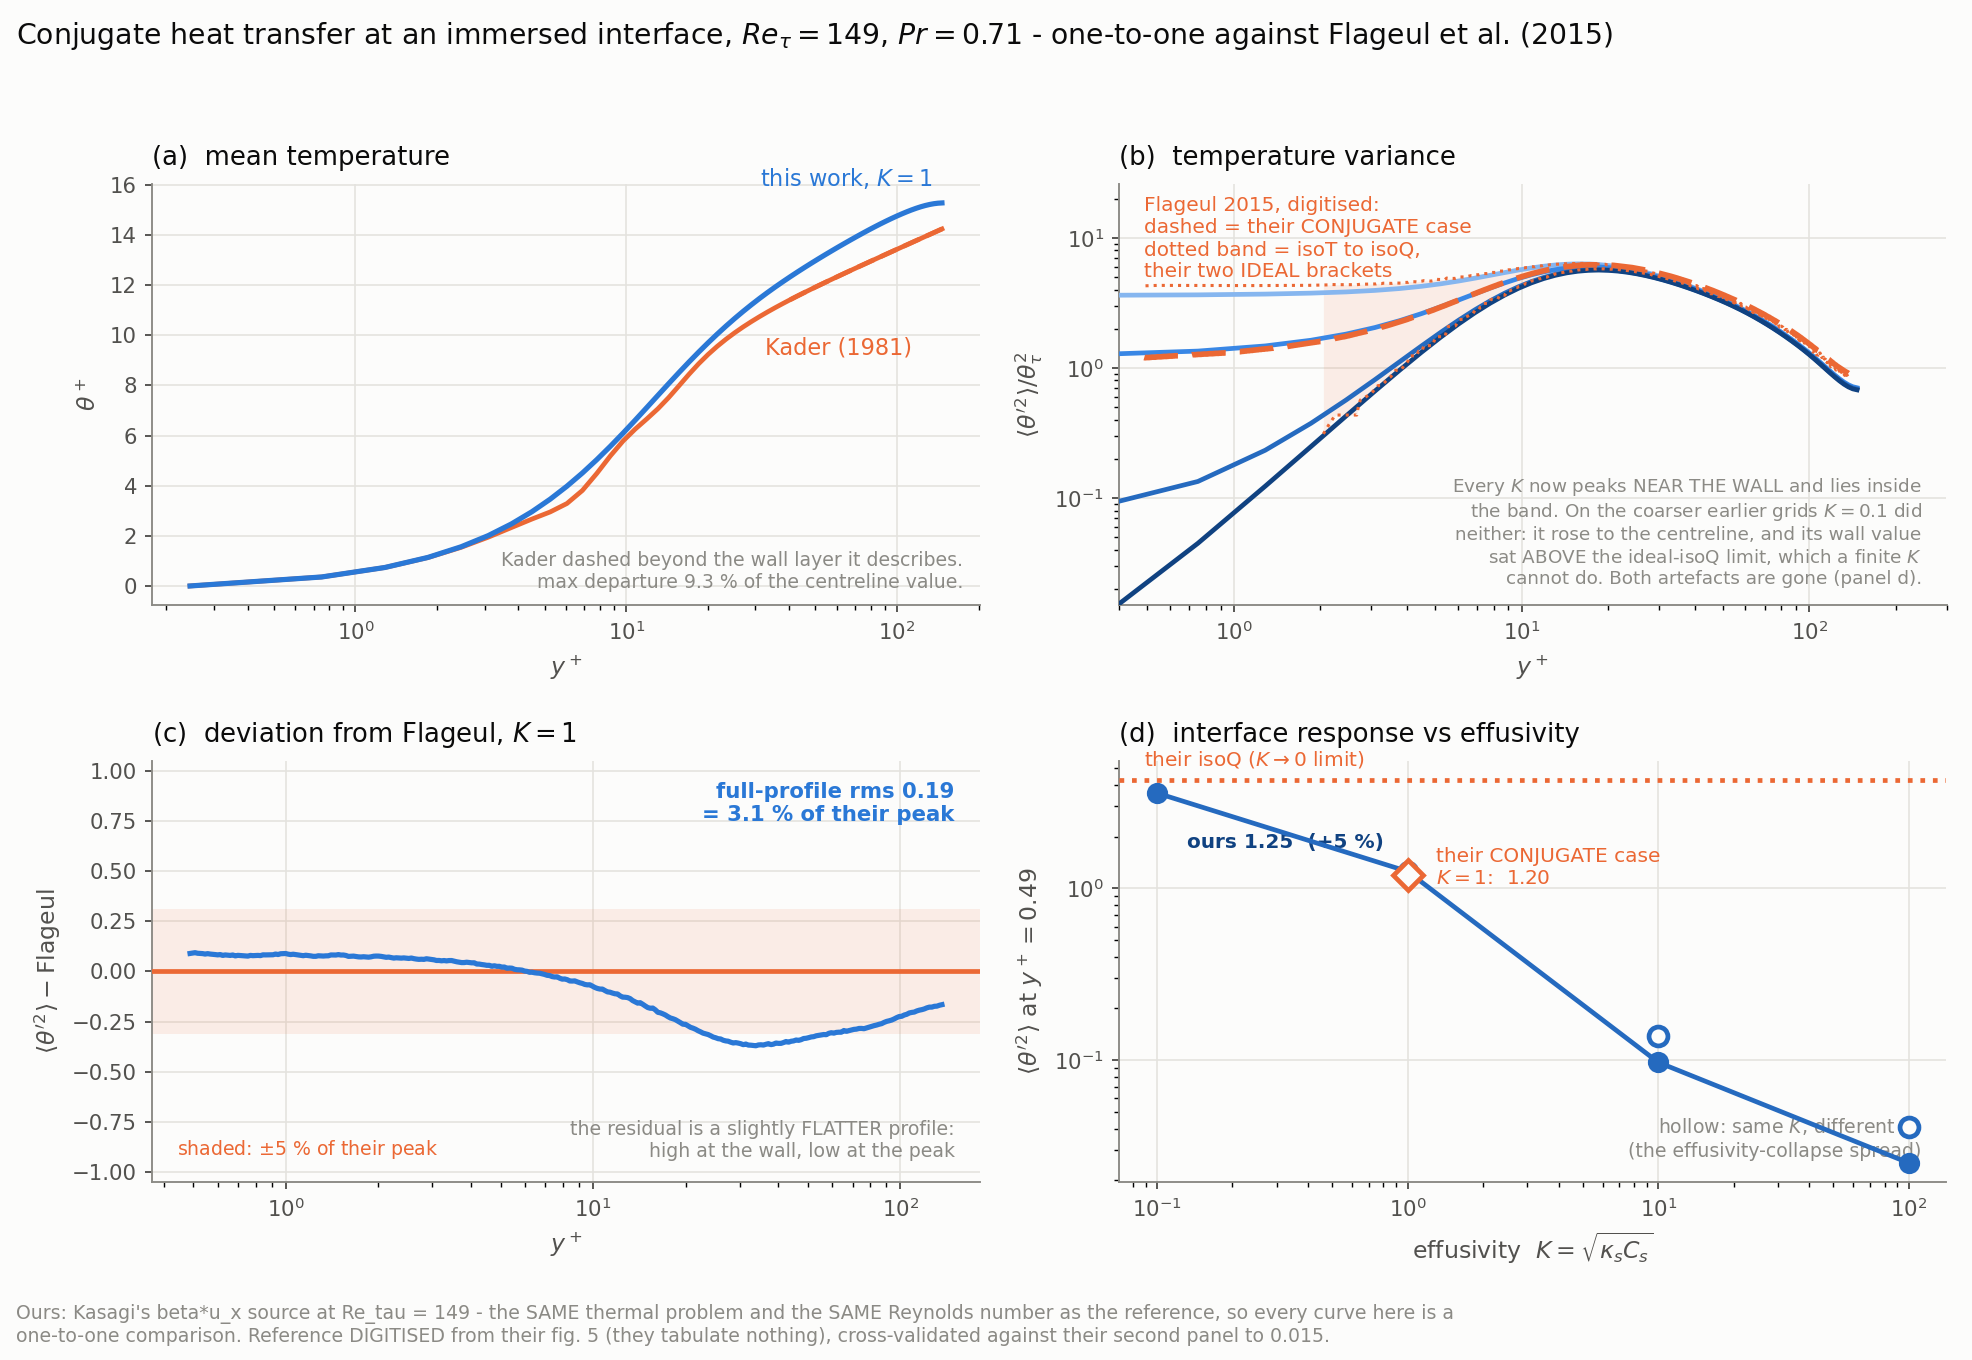
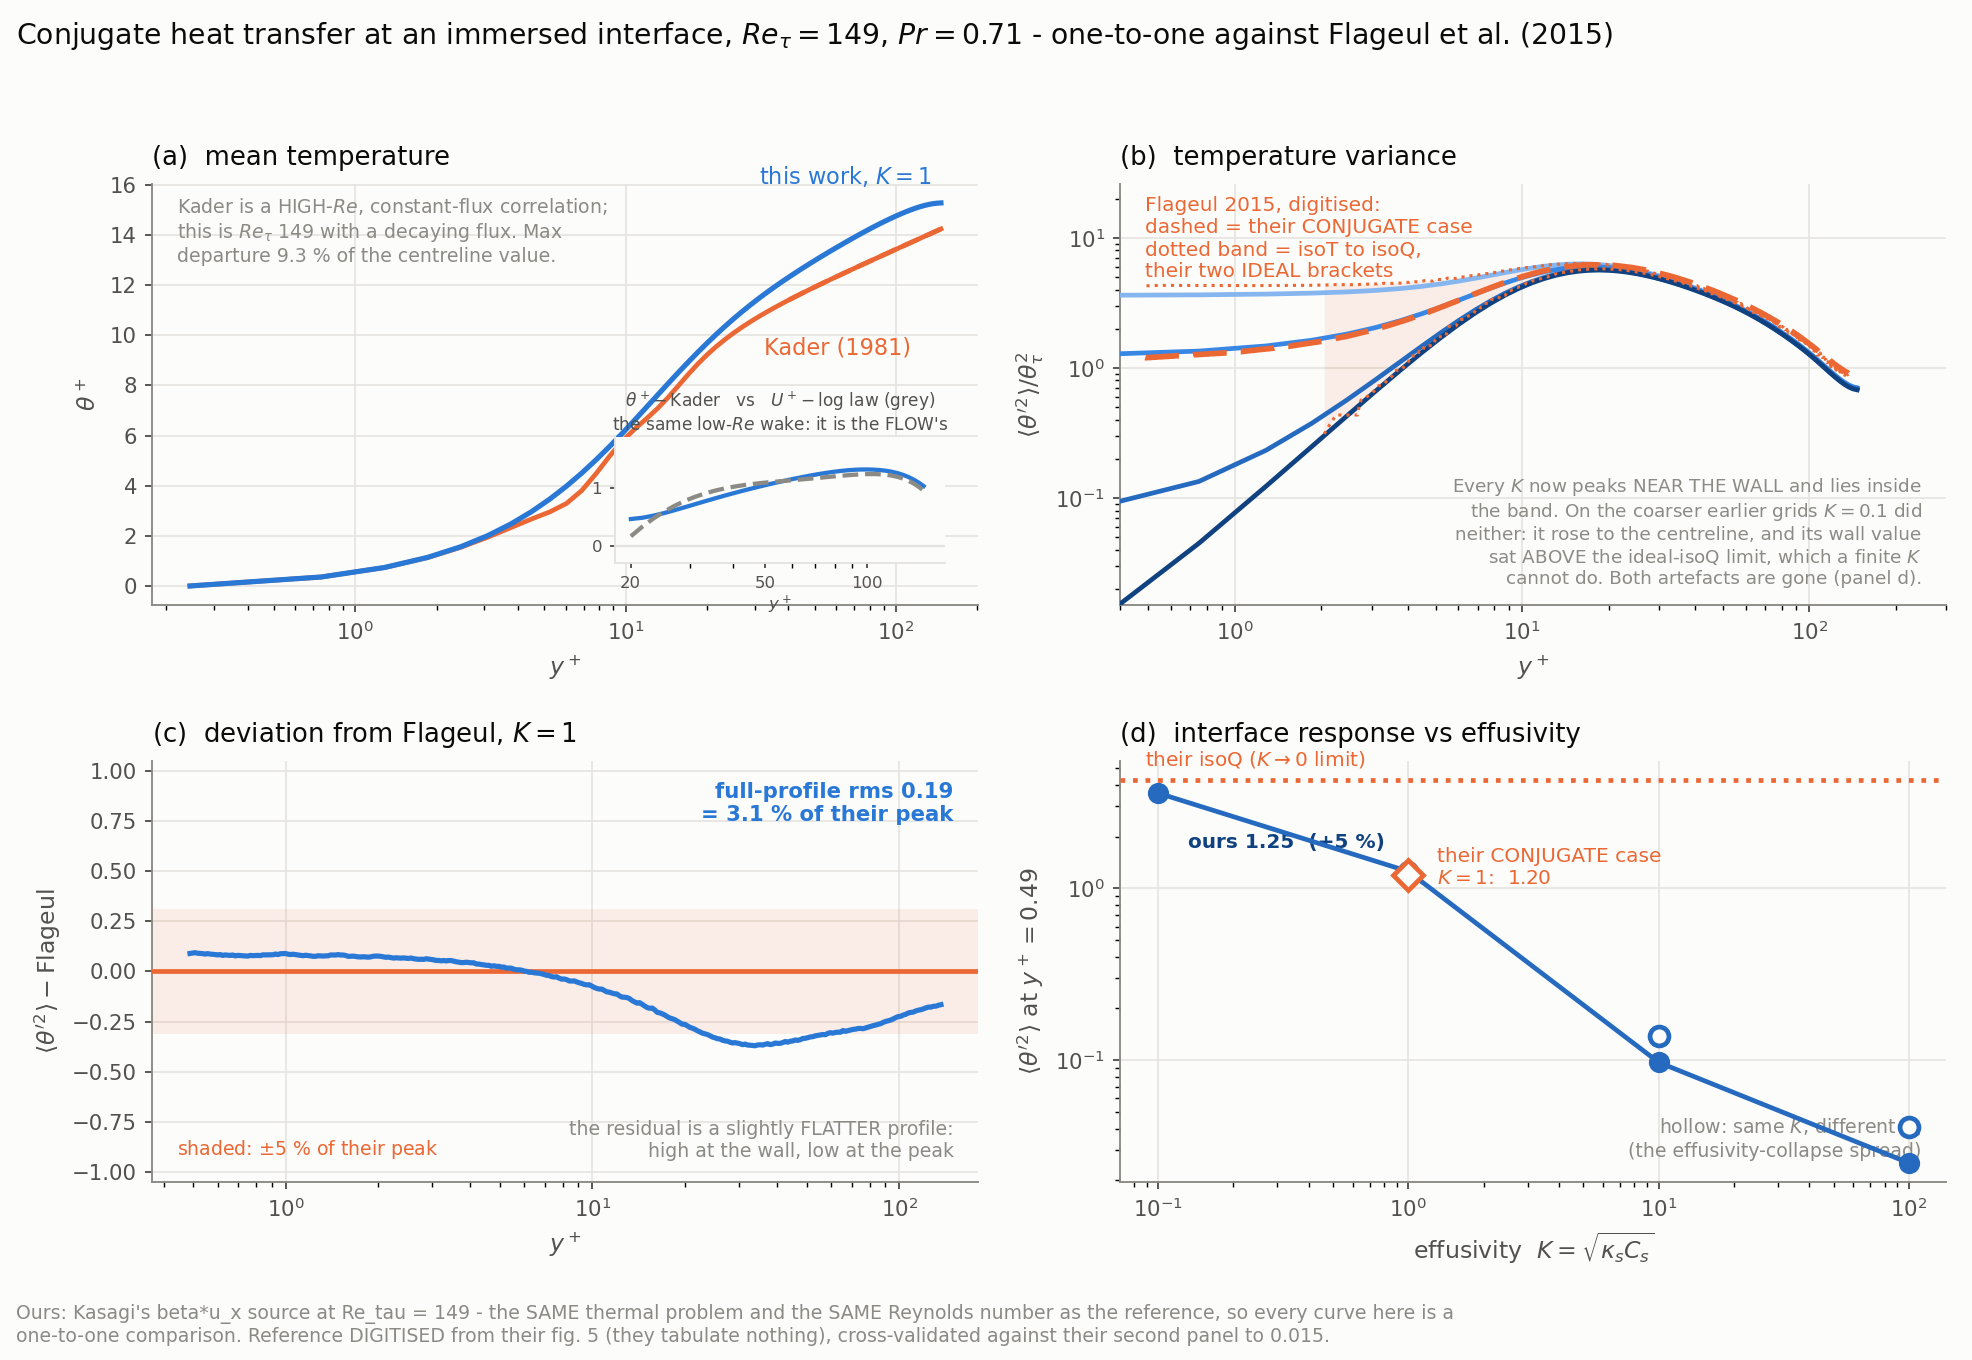
Conjugate CHT: answer the Kader question, and sharpen both figures
WHY THE MEAN SITS ABOVE KADER: it is the flow's low-Reynolds-number wake, not a
scalar error. Kader is a HIGH-Re constant-flux correlation; at Re_tau = 149 the
MOMENTUM profile of the same run sits about one wall unit above the high-Re log
law (wake +0.92, dU+/dln y+ = 2.74 against 2.44), and theta+ inherits exactly
that:

    y+     theta+ - Kader     U+ - log law
     29        +0.67             +0.78
     51        +1.07             +1.11
    100        +1.33             +1.25
    147        +1.04             +0.96

The two departures are the same curve to within ~0.1, so the scalar-specific
residual is <= 0.1 theta_tau. The conduction sublayer agrees to 0.007; the
largest local departure is at y+ ~ 5, the buffer layer, where Kader's
two-branch blend is weakest. Our decaying (Kasagi) flux works the OTHER way --
it lowers theta+ -- so it partly cancels the low-Re excess rather than causing
it. plot_cht.py panel (a) now carries an inset plotting the two departures
together, so the figure answers the question.

kasagi_vs_flageul.png panel (b) gains a RESIDUAL STRIP sharing its x axis: two
curves agreeing to 3 % are indistinguishable on the main axes, which is the
point but also hides both the size and the shape of the disagreement.

Also fixed: panel (d) read our first cell (y+ 0.24) against their curve, which
starts at 0.49, so np.interp returned their endpoint -- the height-mismatch
error from the finer side, now clamped like the checker's. Panel (b)'s K = 0.1
[…]

diff --git a/validation/conjugate/cht/plot_kasagi.py b/validation/conjugate/cht/plot_kasagi.py
@@ -120,8 +120,17 @@ def main():
     ref = np.loadtxt(REF["conjug"])
     isoq, isot = np.loadtxt(REF["isoq"]), np.loadtxt(REF["isot"])
 
-    fig, ax = plt.subplots(1, 2, figsize=(11.4, 4.6), facecolor=SURFACE)
-    for x in ax:
+    # Panel (b) gets a RESIDUAL STRIP under it, sharing the x axis. Two curves
+    # that agree to 3 % are indistinguishable by eye on the main axes -- which
+    # is the point, but it also means the figure shows the agreement without
+    # letting anyone judge its SIZE or its SHAPE. The strip does both, and it
+    # is where the sign structure (high at the wall, low at the peak) is read.
+    fig = plt.figure(figsize=(11.4, 5.6), facecolor=SURFACE)
+    gs = fig.add_gridspec(2, 2, height_ratios=[3.0, 1.0], hspace=0.08,
+                          wspace=0.22)
+    ax = [fig.add_subplot(gs[:, 0]), fig.add_subplot(gs[0, 1])]
+    res = fig.add_subplot(gs[1, 1], sharex=ax[1])
+    for x in list(ax) + [res]:
         x.set_facecolor(SURFACE)
         for s in ("top", "right"):
             x.spines[s].set_visible(False)
@@ -130,7 +139,11 @@ def main():
         x.tick_params(colors=INK2, labelsize=9)
         x.grid(True, color=GRID, lw=0.6, zorder=0)
         x.set_axisbelow(True)
-        x.set_xlabel(r"$y^+$", color=INK2, fontsize=10)
+    ax[0].set_xlabel(r"$y^+$", color=INK2, fontsize=10)
+    res.set_xlabel(r"$y^+$", color=INK2, fontsize=10)
+    ax[1].tick_params(labelbottom=False)
+    for x in list(ax) + [res]:
+        x.set_xscale("log")
 
     # ---- (a) the flux profile: the precondition ----------------------------
     ky, kf = kasagi_shape(a.snapshots)
@@ -174,9 +187,19 @@ def main():
                    f"shaded: isoT-isoQ brackets",
                    xy=(0.04, 0.80), xycoords="axes fraction", ha="left",
                    va="top", color=C_REF, fontsize=9, fontweight="bold")
-    ax[1].annotate(f"full-profile rms {rms:.2f} = {100*rms/ref[:,1].max():.1f} % of their peak",
-                   xy=(0.5, 0.03), xycoords="axes fraction", ha="center",
-                   va="bottom", color=INK2, fontsize=9, fontweight="bold")
+    # ---- the residual strip ------------------------------------------------
+    band = 0.05 * ref[:, 1].max()
+    res.axhspan(-band, band, color=C_REF, alpha=0.10, lw=0, zorder=1)
+    res.axhline(0.0, color=C_REF, lw=1.8, zorder=3)
+    res.semilogx(g, np.interp(g, d["yp"], d["var"]) - np.interp(g, ref[:, 0], ref[:, 1]),
+                 "-", color=C_US, lw=2.0, zorder=4)
+    res.set_ylim(-0.62, 0.62)
+    res.set_yticks([-0.5, 0.0, 0.5])
+    res.set_ylabel("ours $-$ theirs", color=INK2, fontsize=8.5)
+    res.annotate(f"rms {rms:.2f} = {100*rms/ref[:,1].max():.1f} % of their peak;"
+                 f"  shaded $\\pm5$ %",
+                 xy=(0.5, 0.06), xycoords="axes fraction", ha="center",
+                 va="bottom", color=INK2, fontsize=8, fontweight="bold")
     ax[1].set_xlim(0.45, 160)
     ax[1].set_ylim(0, 7.0)
     ax[1].set_ylabel(r"$\langle\theta'^2\rangle/\theta_\tau^2$", color=INK2, fontsize=10)
@@ -188,12 +211,17 @@ def main():
                  "Flageul et al. (2015)",
                  color=INK, fontsize=12, fontweight="bold", x=0.012, ha="left",
                  y=0.985)
-    fig.text(0.012, 0.006,
-             "Same thermal problem (Kasagi's beta*u_x source) and same Reynolds number as the "
-             "reference, so this is a one-to-one comparison.\nReference DIGITISED from their "
-             "fig. 5 (they tabulate nothing), cross-validated against their second panel to 0.015.",
+    fig.text(0.012, 0.012,
+             "Same thermal problem (Kasagi's beta*u_x source), same Reynolds number, same grid "
+             "resolution and same outer-wall BC as the reference,\nso this is a one-to-one "
+             "comparison. Reference DIGITISED from their fig. 5 (they tabulate nothing), "
+             "cross-validated against their second panel to 0.015.",
              color=MUTED, fontsize=8.5, ha="left", va="bottom")
-    fig.tight_layout(rect=(0, 0.085, 1, 0.945))
+    # subplots_adjust, not tight_layout: with a mixed gridspec (one tall axis
+    # beside a main+residual pair) tight_layout keeps letting the x labels run
+    # into the footnote.
+    fig.subplots_adjust(left=0.065, right=0.985, top=0.855, bottom=0.175,
+                        hspace=0.08, wspace=0.20)
     fig.savefig(a.out, dpi=170, facecolor=SURFACE)
     print(f"{a.out} written   (rms {rms:.3f}, peak {d['var'][b].max():.3f} "
           f"vs {ref[:,1].max():.3f})")

diff --git a/validation/conjugate/cht/plot_cht.py b/validation/conjugate/cht/plot_cht.py
@@ -131,6 +131,10 @@ def main():
                     help="the two grid-aligned fluid/solid interfaces. They set "
                          "which rows are fluid AND the y+ origin, so a wrong "
                          "pair silently shifts every profile.")
+    ap.add_argument("--vel", default="Fstat_vel.h5",
+                    help="the run's VELOCITY statistics. Panel (a)'s inset needs "
+                         "them: it is what shows the departure from Kader is the "
+                         "flow's low-Re wake and not a scalar error.")
     ap.add_argument("--out", default="cht_validation.png")
     a = ap.parse_args()
     globals()["RE"] = a.re
@@ -163,15 +167,51 @@ def main():
     A.semilogx(yp, kd, "-", color=ACCENT, lw=2.0, zorder=3)
     A.semilogx(yp[yp > 40], kd[yp > 40], "--", color=ACCENT, lw=2.0, zorder=3)
     A.semilogx(yp, thp, "-", color=C_US, lw=2.2, zorder=4)
-    A.annotate("this work, $K=1$", xy=(yp[-1], thp[-1]), xytext=(-4, 7),
+    A.annotate("this work, $K=1$", xy=(yp[-1], thp[-1]), xytext=(-4, 8),
                textcoords="offset points", ha="right", color=C_US, fontsize=9.5)
     A.annotate("Kader (1981)", xy=(30, kader(np.array([30.0]))[0] - kader(np.array([yp[0]]))[0]),
                xytext=(4, -15), textcoords="offset points", color=ACCENT, fontsize=9.5)
+    # WHY WE SIT ABOVE KADER. Kader is a HIGH-Re, constant-flux correlation.
+    # At Re_tau = 149 the FLOW itself sits about one wall unit above the
+    # high-Re log law -- the low-Reynolds-number wake -- and the thermal
+    # profile inherits exactly that. The inset is the evidence: theta+ - Kader
+    # and U+ - (2.44 ln y+ + 5) are plotted together and they overlay, so the
+    # departure is the flow's, not the scalar's. Anything left over is the
+    # scalar-specific error, and it is <= 0.1 theta_tau.
+    if os.path.exists(a.vel):
+        with h5py.File(a.vel, "r") as fv:
+            Pv, yv = fv["profile"][...], fv["coord"][...]
+        mv = (yv > YLO) & (yv < YHI) & (yv < 0.5 * (YLO + YHI))
+        ypv = (yv[mv] - YLO) * RE
+        dU = Pv[mv, 0] - (2.44 * np.log(np.maximum(ypv, 1e-9)) + 5.0)
+        ins = A.inset_axes([0.56, 0.10, 0.40, 0.30])
+        ins.semilogx(yp[yp > 20], (thp - kd)[yp > 20], "-", color=C_US, lw=1.8)
+        ins.semilogx(ypv[ypv > 20], dU[ypv > 20], "--", color=MUTED, lw=1.8)
+        ins.axhline(0, color=GRID, lw=1.0)
+        ins.set_facecolor(SURFACE)
+        for sp in ("top", "right"):
+            ins.spines[sp].set_visible(False)
+        for sp in ("left", "bottom"):
+            ins.spines[sp].set_color(GRID)
+        ins.tick_params(colors=INK2, labelsize=7, length=2)
+        ins.set_ylim(-0.3, 1.9)
+        ins.set_xlim(18, 170)
+        ins.set_xticks([20, 50, 100])
+        ins.set_xticklabels(["20", "50", "100"])
+        # a log axis labels its MINOR ticks too, which turns a 3-tick inset
+        # into an unreadable row of 3x10^1 / 4x10^1 / 6x10^1
+        ins.xaxis.set_minor_formatter(matplotlib.ticker.NullFormatter())
+        ins.set_yticks([0, 1])
+        ins.set_title("$\\theta^+\\!-$Kader   vs   $U^+\\!-$log law (grey)\n"
+                      "the same low-$Re$ wake: it is the FLOW's",
+                      color=INK2, fontsize=7.2, pad=3)
+        ins.set_xlabel("$y^+$", color=INK2, fontsize=7, labelpad=1)
     dev = np.abs(thp - kd).max() / kd.max()
-    A.annotate(f"Kader dashed beyond the wall layer it describes.\n"
-               f"max departure {100*dev:.1f} % of the centreline value.",
-               xy=(0.98, 0.03), xycoords="axes fraction", color=MUTED,
-               fontsize=8, ha="right", va="bottom")
+    A.annotate(f"Kader is a HIGH-$Re$, constant-flux correlation;\n"
+               f"this is $Re_\\tau$ 149 with a decaying flux. Max\n"
+               f"departure {100*dev:.1f} % of the centreline value.",
+               xy=(0.03, 0.97), xycoords="axes fraction", color=MUTED,
+               fontsize=8, ha="left", va="top")
     A.set_xlabel("$y^+$", color=INK2, fontsize=10)
     A.set_ylabel(r"$\theta^+$", color=INK2, fontsize=10)
     A.set_title("(a)  mean temperature", color=INK, fontsize=11, loc="left", pad=8)

diff --git a/validation/conjugate/cht/README.md b/validation/conjugate/cht/README.md
@@ -805,3 +805,42 @@ visible in the earlier figures:
 `check_cht.py` still exits FAIL on gates (1) and (2): the absolute solid level
 (the charging transient, offset-free form 6.0e-2 against a 5e-2 tolerance) and
 the effusivity collapse (22 %/38 %). Both are documented physics, unchanged.
+
+## The Kader comparison, and why the profile sits above it
+
+Panel (a) shows θ⁺ about 9 % above Kader (1981) at the centreline, and the log
+slope steeper (2.80 against Kader's 2.27 over y⁺ 30–100). That is NOT a scalar
+error, and the check is the momentum profile of the same run:
+
+| y⁺ | θ⁺ − Kader | U⁺ − (2.44 ln y⁺ + 5) |
+|---|---|---|
+| 29 | +0.67 | +0.78 |
+| 51 | +1.07 | +1.11 |
+| 100 | +1.33 | +1.25 |
+| 147 | +1.04 | +0.96 |
+
+**The two departures are the same curve to within ~0.1.** Kader is a HIGH-Re,
+constant-flux correlation; at Re_τ = 149 the FLOW itself sits about one wall
+unit above the high-Re log law (measured wake +0.92, dU⁺/d ln y⁺ = 2.74 against
+2.44), and the thermal profile simply inherits it. So we agree with Kader to
+the extent Kader can be expected to apply, and the scalar-specific residual is
+**≤ 0.1 θ_τ**. The inset in panel (a) plots the two departures together; they
+overlay.
+
+Two smaller contributions, both real but subordinate:
+* the conduction sublayer is EXACT — at y⁺ 0.7 and 1.9 the two agree to 0.007;
+* the largest LOCAL departure is at y⁺ ≈ 5 (+0.51), the buffer layer, where
+  Kader's two-branch blend is weakest;
+* our flux DECAYS (Kasagi source) where Kader assumes it constant. That works
+  in the opposite direction — a decaying flux lowers θ⁺ — so it partly cancels
+  the low-Re excess rather than causing it.
+
+## Figure improvements (2026-09-07)
+
+* `kasagi_vs_flageul.png` panel (b) gains a RESIDUAL STRIP sharing its x axis.
+  Two curves agreeing to 3 % are indistinguishable on the main axes, which is
+  the point but also hides both the SIZE and the SHAPE of the disagreement;
+  the strip shows both, and is where the sign structure (high at the wall, low
+  at the peak) is read.
+* `cht_validation.png` panel (a) gains the inset described above, so the
+  Kader question is answered in the figure rather than only in this file.
